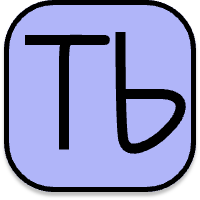
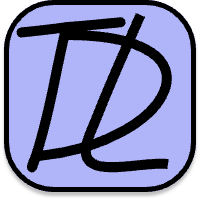
Updates

Changed region(s): [[0.06, 0.06, 0.93, 0.87]]

diff --git a/sw.js b/sw.js
@@ -1,1 +1,1 @@
-if(!self.define){let e,i={};const n=(n,s)=>(n=new URL(n+".js",s).href,i[n]||new Promise((i=>{if("document"in self){const e=document.createElement("script");e.src=n,e.onload=i,document.head.appendChild(e)}else e=n,importScripts(n),i()})).then((()=>{let e=i[n];if(!e)throw new Error(`Module ${n} didn’t register its module`);return e})));self.define=(s,r)=>{const t=e||("document"in self?document.currentScript.src:"")||location.href;if(i[t])return;let o={};const f=e=>n(e,t),c={module:{uri:t},exports:o,require:f};i[t]=Promise.all(s.map((e=>c[e]||f(e)))).then((e=>(r(...e),o)))}}define(["./workbox-5ffe50d4"],(function(e){"use strict";self.skipWaiting(),e.clientsClaim(),e.precacheAndRoute([{url:"assets/index-kSgUFu0M.js",revision:null},{url:"assets/index-n_ryQ3BS.css",revision:null},{url:"index.html",revision:"991de4cc65eff1081a32c2408ea2f93d"},{url:"registerSW.js",revision:"ae1e992809c732353125a8cebe3d417c"},{url:"icon-192x192.png",revision:"cf5741742333ea8fa7e0ce978bea256a"},{url:"icon-512x512.png",revision:"ee0fe7304435ef26e2ed96bbf5078143"},{url:"manifest.webmanifest",revision:"3073daa518dc6f13f707711011ff1741"}],{}),e.cleanupOutdatedCaches(),e.registerRoute(new e.NavigationRoute(e.createHandlerBoundToURL("index.html")))}));
+if(!self.define){let e,i={};const n=(n,s)=>(n=new URL(n+".js",s).href,i[n]||new Promise((i=>{if("document"in self){const e=document.createElement("script");e.src=n,e.onload=i,document.head.appendChild(e)}else e=n,importScripts(n),i()})).then((()=>{let e=i[n];if(!e)throw new Error(`Module ${n} didn’t register its module`);return e})));self.define=(s,r)=>{const t=e||("document"in self?document.currentScript.src:"")||location.href;if(i[t])return;let o={};const c=e=>n(e,t),d={module:{uri:t},exports:o,require:c};i[t]=Promise.all(s.map((e=>d[e]||c(e)))).then((e=>(r(...e),o)))}}define(["./workbox-5ffe50d4"],(function(e){"use strict";self.skipWaiting(),e.clientsClaim(),e.precacheAndRoute([{url:"assets/index-kSgUFu0M.js",revision:null},{url:"assets/index-n_ryQ3BS.css",revision:null},{url:"index.html",revision:"c6d2acef0da58802c09909de97b52601"},{url:"registerSW.js",revision:"ae1e992809c732353125a8cebe3d417c"},{url:"icon-192x192.png",revision:"bd854d53b856c9bf05d8c86da5d9b12e"},{url:"icon-512x512.png",revision:"1641eda4c5b5e5cff5c8eca94da014ae"},{url:"manifest.webmanifest",revision:"3073daa518dc6f13f707711011ff1741"}],{}),e.cleanupOutdatedCaches(),e.registerRoute(new e.NavigationRoute(e.createHandlerBoundToURL("index.html")))}));

diff --git a/index.html b/index.html
@@ -4,7 +4,7 @@
     <meta charset="UTF-8" />
     <meta name="viewport" content="width=device-width, initial-scale=1.0" />
     <meta name="theme-color" content="#ffffff" />
-    <link rel="icon" type="image/svg+xml" href="/tdl/vite.svg" />
+    <link rel="icon" type="image/svg+xml" href="/tdl/fav.svg" />
     <title>tdl</title>
     <script type="module" crossorigin src="/tdl/assets/index-kSgUFu0M.js"></script>
     <link rel="stylesheet" crossorigin href="/tdl/assets/index-n_ryQ3BS.css">
